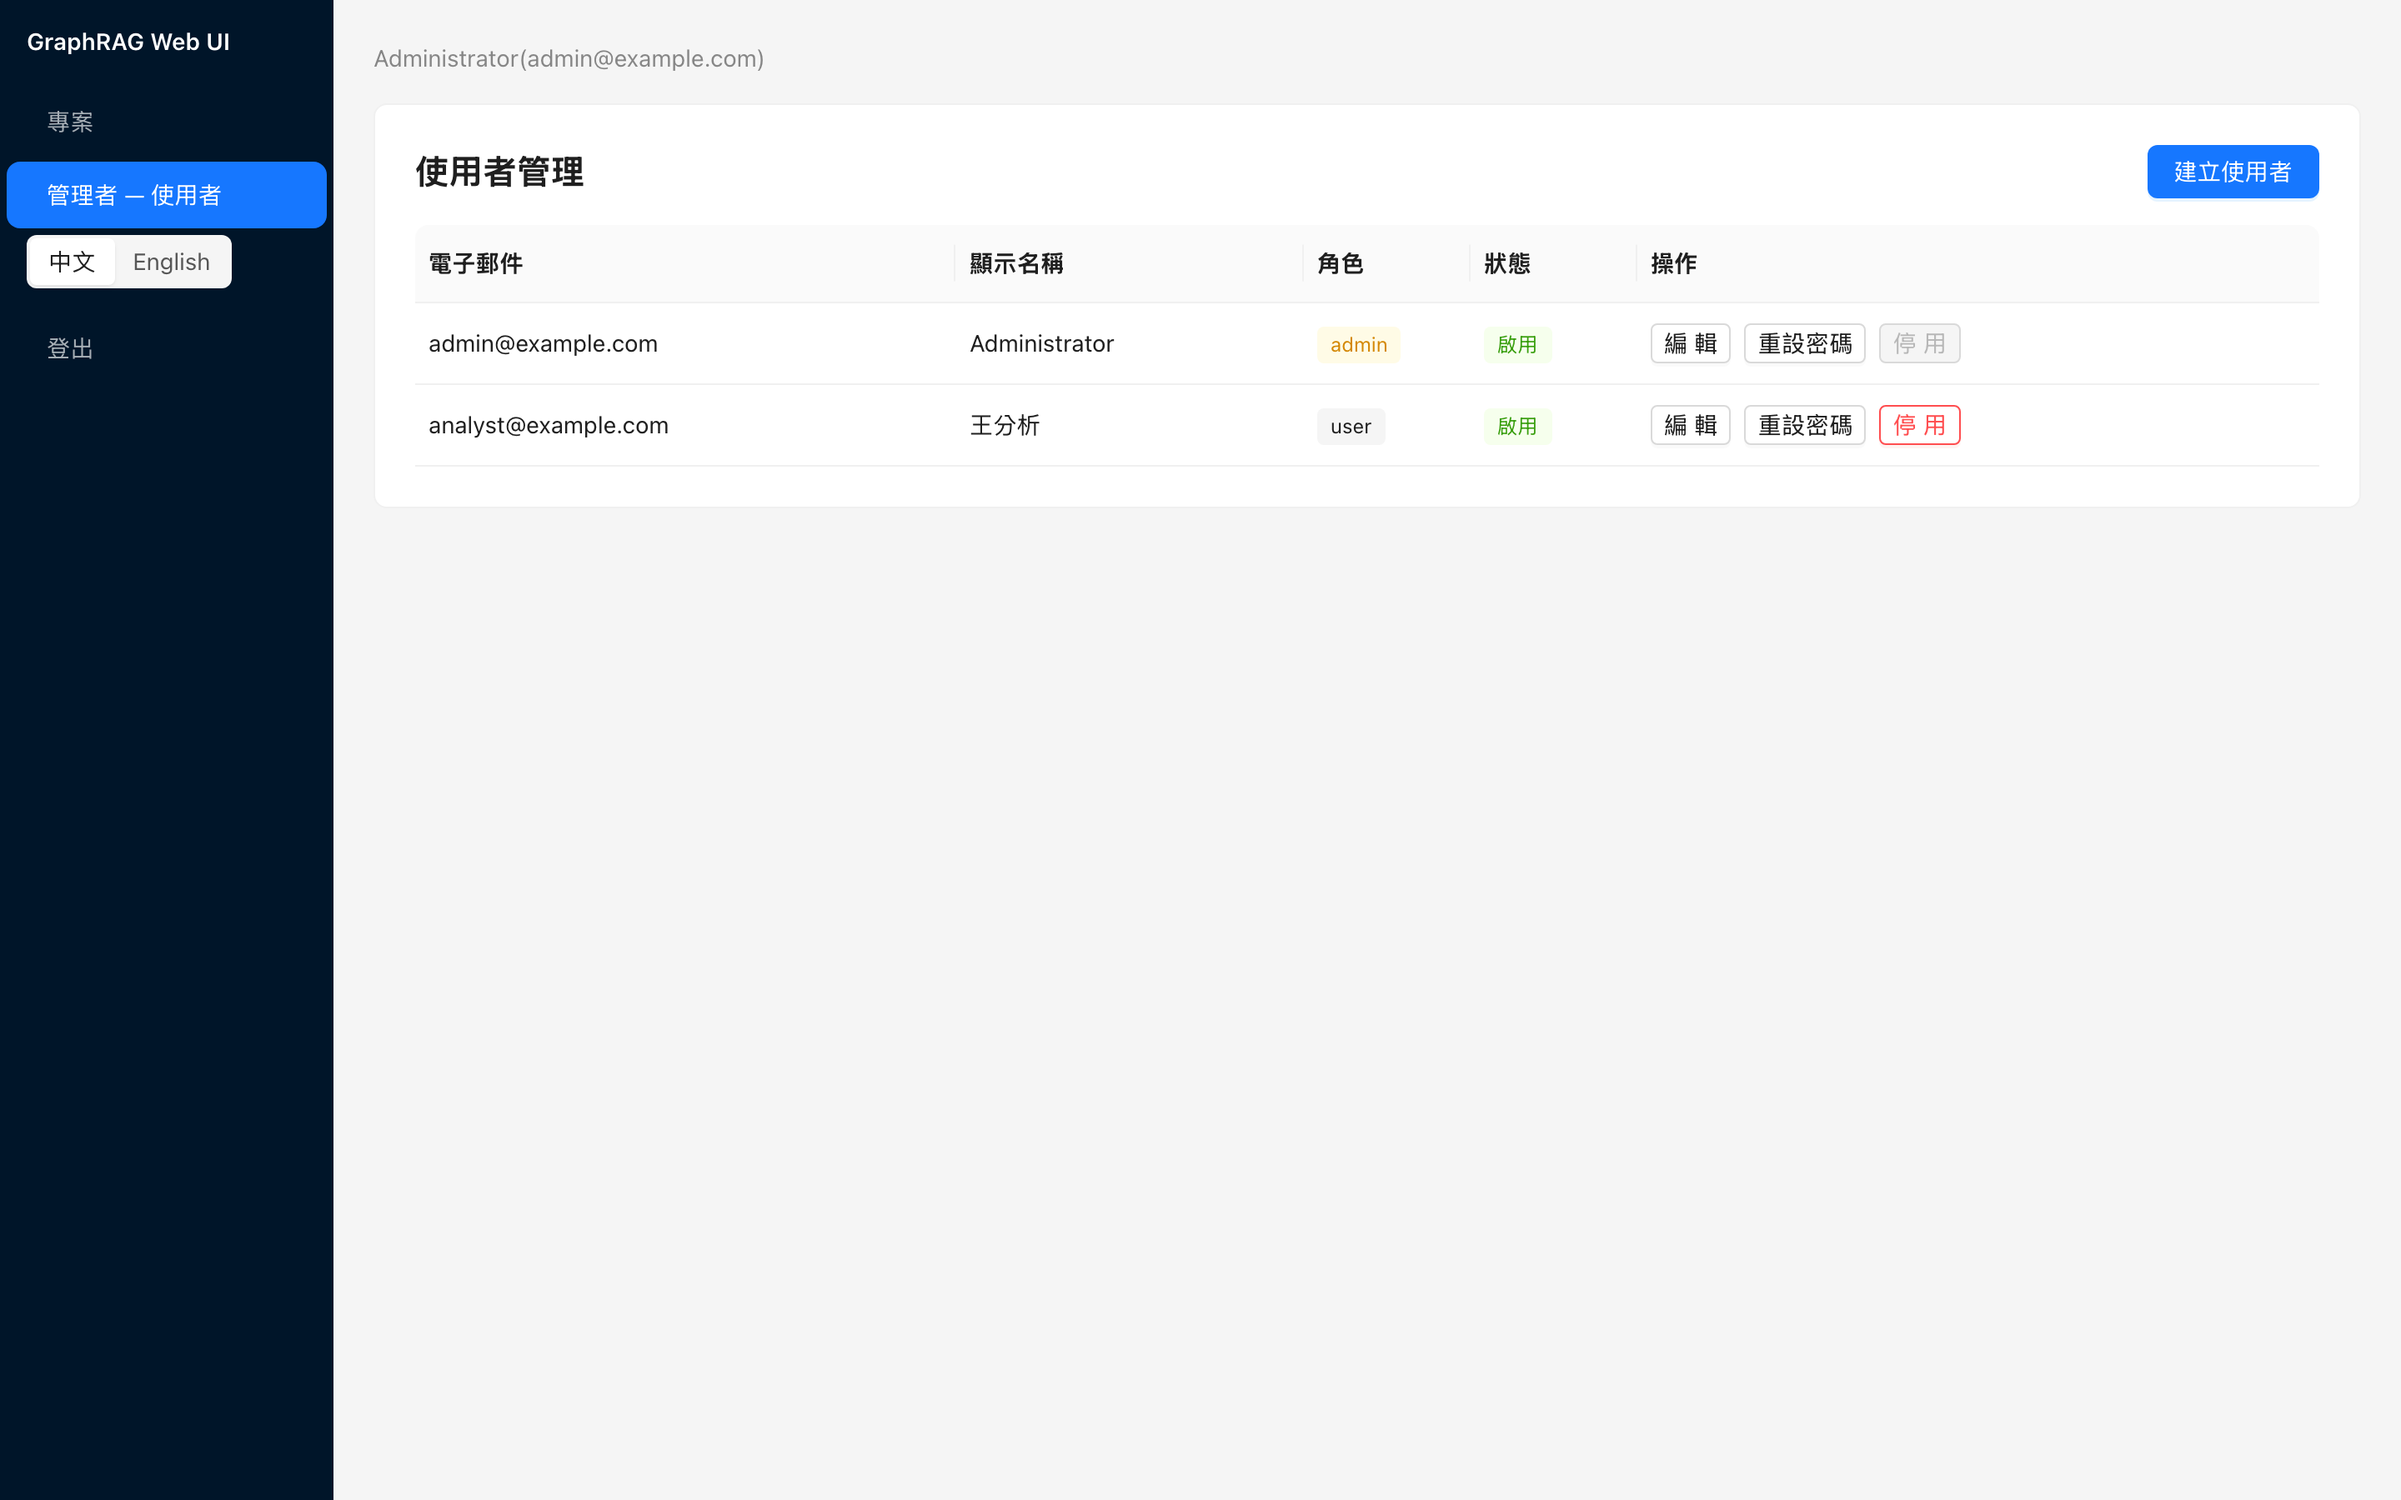
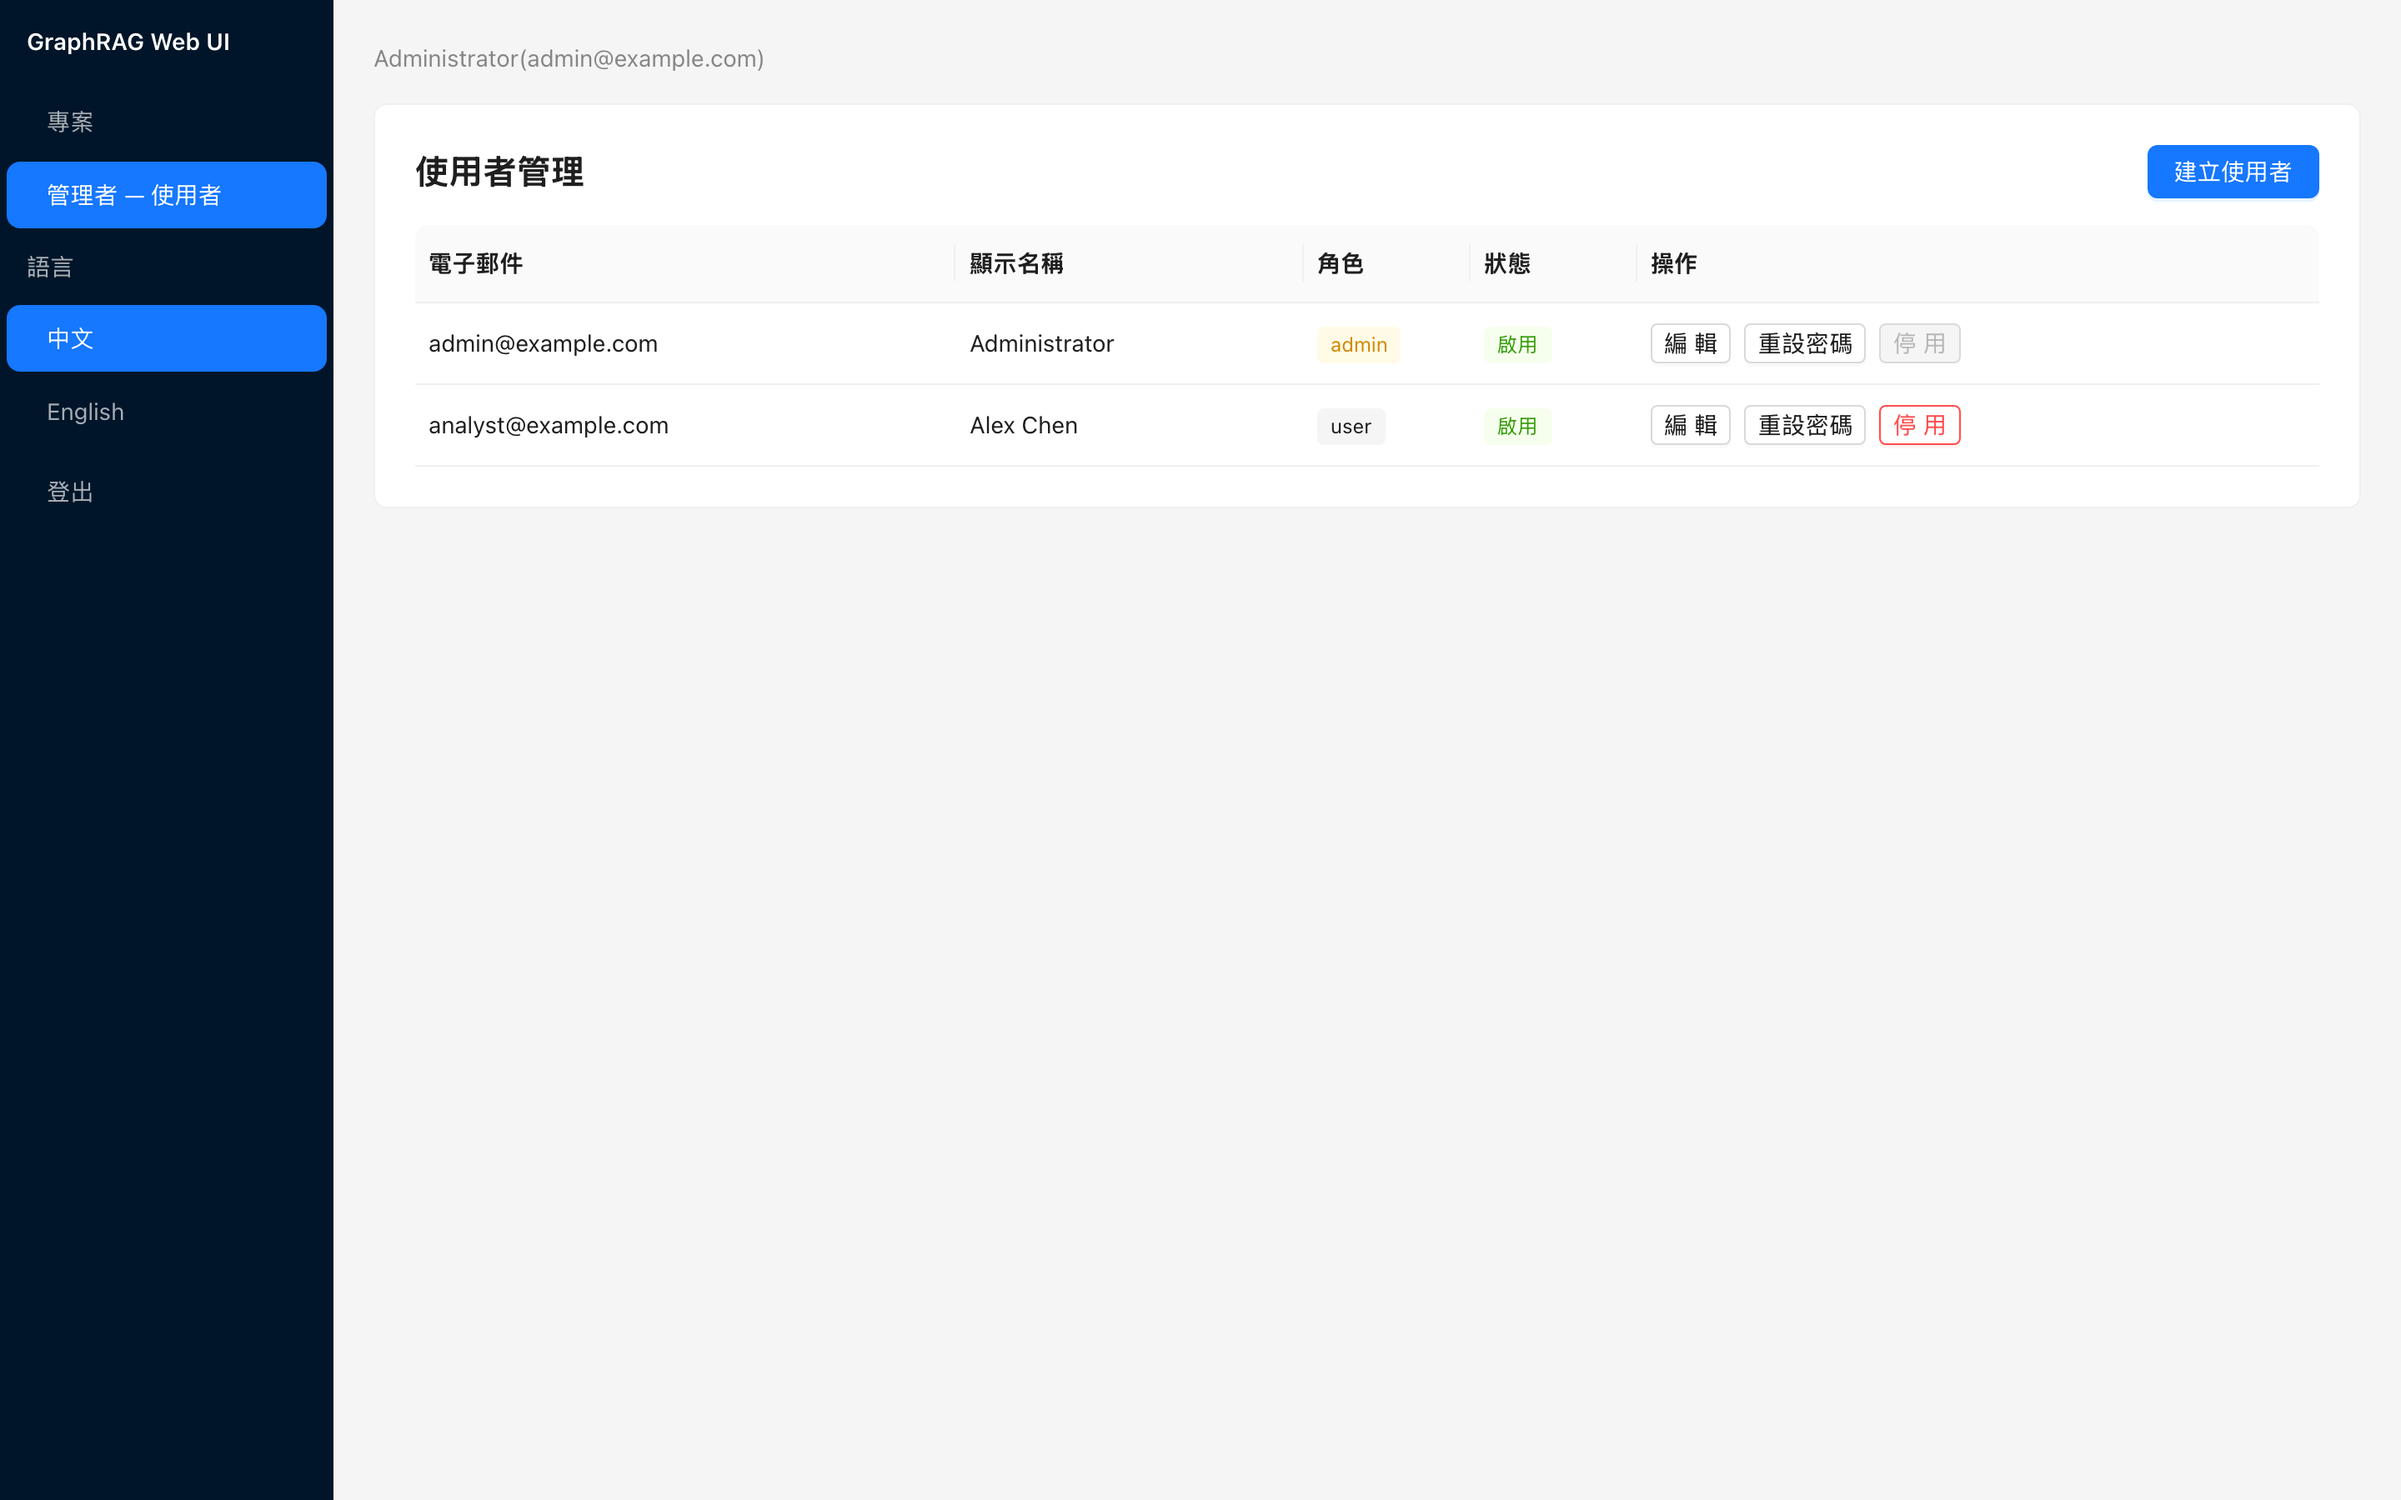
feat(ui): language menu in the sidebar, English Graph label, neutral demo seed
- the language switcher was a Segmented two-button control; it is now a
  dark inline Menu at the bottom of the Sider (group-titled 語言 /
  Language, 中文 / English selectable, current language highlighted),
  matching the sidebar's own menu idiom. Item keys are the language
  codes themselves
- explore.modeGraph joins the technical-term convention (DRIFT, YAML):
  the zh-TW label is now 'Graph', so the README's '(UI label: 圖譜)'
  caveats are gone; zh prose keeps 圖譜 where natural
- the demo analyst display name is locale-independent data: 王分析
  reading as UI text in the English screenshots was jarring -> Alex
  Chen, with an idempotent fix-up in the seed for stacks seeded by an
  older run
- screenshots re-captured in both locales

Changed region(s): [[0.0, 0.1556, 0.1562, 0.2489], [0.4062, 0.28, 0.4375, 0.3111]]

diff --git a/frontend/src/components/Layout.tsx b/frontend/src/components/Layout.tsx
@@ -1,6 +1,6 @@
 import { useEffect } from "react";
 import { useTranslation } from "react-i18next";
-import { Layout as AntLayout, Menu, Segmented, Typography } from "antd";
+import { Layout as AntLayout, Menu, Typography } from "antd";
 import { Outlet, useLocation, useNavigate } from "react-router-dom";
 import { useAuth } from "../stores/auth";
 
@@ -36,16 +36,24 @@ export default function Layout() {
           items={items}
           onClick={({ key }) => navigate(key)}
         />
-        <Segmented
-          value={i18n.language}
-          options={[{ label: "中文", value: "zh-TW" }, { label: "English", value: "en-US" }]}
-          onChange={(v) => { void i18n.changeLanguage(v as string); }}
-          // marginTop:auto pushes the switcher (and the logout menu below it)
-          // to the Sider bottom; the logout Menu DROPS its own marginTop:"auto"
-          // — two auto margins would split the free space and park the switcher
-          // mid-column instead of above logout.
-          style={{ marginTop: "auto", marginBottom: 12, marginLeft: 16,
-                   marginRight: 16, width: "fit-content" }}
+        <Menu
+          theme="dark"
+          mode="inline"
+          selectedKeys={[i18n.language]}
+          onClick={({ key }) => { void i18n.changeLanguage(key); }}
+          items={[{
+            key: "language", type: "group", label: t("layout.language"),
+            children: [
+              { key: "zh-TW", label: "中文" },
+              { key: "en-US", label: "English" },
+            ],
+          }]}
+          // marginTop:auto pushes the language menu (and the logout menu
+          // below it) to the Sider bottom; the logout Menu DROPS its own
+          // marginTop:"auto" — two auto margins would split the free space
+          // and park the switcher mid-column instead of above logout.
+          // The language keys double as i18n language codes.
+          style={{ marginTop: "auto" }}
         />
         <Menu
           theme="dark"

diff --git a/frontend/src/components/__tests__/ExplorePanel.test.tsx b/frontend/src/components/__tests__/ExplorePanel.test.tsx
@@ -114,19 +114,19 @@ async function pickOption(user: ReturnType<typeof userEvent.setup>, label: strin
   await user.click(await screen.findByText(label, { selector: ".ant-select-item-option-content" }));
 }
 
-test("renders Segmented 圖譜|資料表; default 資料表 fetches entities page 0", async () => {
+test("renders Segmented Graph|資料表; default 資料表 fetches entities page 0", async () => {
   mount();
-  expect(screen.getByText("圖譜")).toBeInTheDocument();
+  expect(screen.getByText("Graph")).toBeInTheDocument();
   expect(screen.getByText("資料表")).toBeInTheDocument();
   await screen.findByText("Alan Turing");
   expect(fetchMock).toHaveBeenCalledWith("/api/projects/p1/artifacts/entities?limit=50&offset=0", expect.anything());
 });
 
-test("圖譜 mode renders the WebGL graph and fetches the graph endpoint", async () => {
+test("Graph mode renders the WebGL graph and fetches the graph endpoint", async () => {
   mount();
   const user = userEvent.setup();
   await screen.findByText("Alan Turing");
-  await user.click(screen.getByText("圖譜"));
+  await user.click(screen.getByText("Graph"));
   expect(await screen.findByTestId("sigma")).toBeInTheDocument();
   expect(fetchMock).toHaveBeenCalledWith("/api/projects/p1/artifacts/graph", expect.anything());
 });

diff --git a/frontend/src/i18n/locales/zh-TW.ts b/frontend/src/i18n/locales/zh-TW.ts
@@ -176,6 +176,7 @@ export default {
   layout: {
     projects: "專案",
     adminUsers: "管理者 — 使用者",
+    language: "語言",
     logout: "登出",
     title: "GraphRAG Web UI",
   },
@@ -251,7 +252,7 @@ export default {
     tableCommunities: "社群", tableCommunityReports: "社群報告",
     tableTextUnits: "文本單元", tableDocuments: "文件",
     staleWarning: "索引進行中,結果可能不完整",
-    modeGraph: "圖譜", modeTable: "資料表",
+    modeGraph: "Graph", modeTable: "資料表",
     search: "搜尋", searchPlaceholder: "搜尋關鍵字",
   },
   graph: {

diff --git a/frontend/src/i18n/locales/en-US.ts b/frontend/src/i18n/locales/en-US.ts
@@ -172,6 +172,7 @@ const enUS = {
   layout: {
     projects: "Projects",
     adminUsers: "Admin — Users",
+    language: "Language",
     logout: "Log out",
     title: "GraphRAG Web UI",
   },

diff --git a/README.md b/README.md
@@ -4,7 +4,7 @@ A team web console for [Microsoft GraphRAG](https://github.com/microsoft/graphra
 projects, upload corpora, run indexing jobs, and query the knowledge graph — local / global /
 drift / basic search modes, all streaming over SSE with inline citations. Browse the parquet
 artifacts (entities, relationships, communities, documents, community reports, text units)
-and explore the graph in an interactive WebGL view (UI label: 圖譜). It replaces GraphRAG CLI
+and explore the graph in an interactive WebGL Graph view. It replaces GraphRAG CLI
 operations for non-technical teammates: everything from `graphrag init` to query runs behind
 login, roles, and per-project quotas.
 
@@ -73,7 +73,7 @@ Short sketch (full detail in the [design spec](docs/superpowers/specs/)):
 9. **Query** — all four modes (`local`, `global`, `drift`, `basic`) stream over SSE with
    inline citations.
 10. **Explore** — artifact tables (entities / relationships / communities / documents /
-    community_reports / text_units) and the WebGL graph view (UI label: 圖譜).
+    community_reports / text_units) and the WebGL Graph view.
 
 Admins additionally get the user-management page (roles, password resets,
 deactivation):

diff --git a/docs/zh-TW/README.md b/docs/zh-TW/README.md
@@ -74,7 +74,7 @@ drift / basic 四種搜尋模式,全部透過 SSE 串流並附行內引用。可
 9. **查詢** — 四種模式(`local`、`global`、`drift`、`basic`)全部以 SSE
    串流回應,並附行內引用。
 10. **探索** — 產物資料表(entities / relationships / communities / documents /
-    community_reports / text_units)與圖譜 WebGL 圖形檢視。
+    community_reports / text_units)與 Graph（圖譜）WebGL 圖形檢視。
 
 管理者另可使用使用者管理頁面(角色、密碼重設、停用):
 
